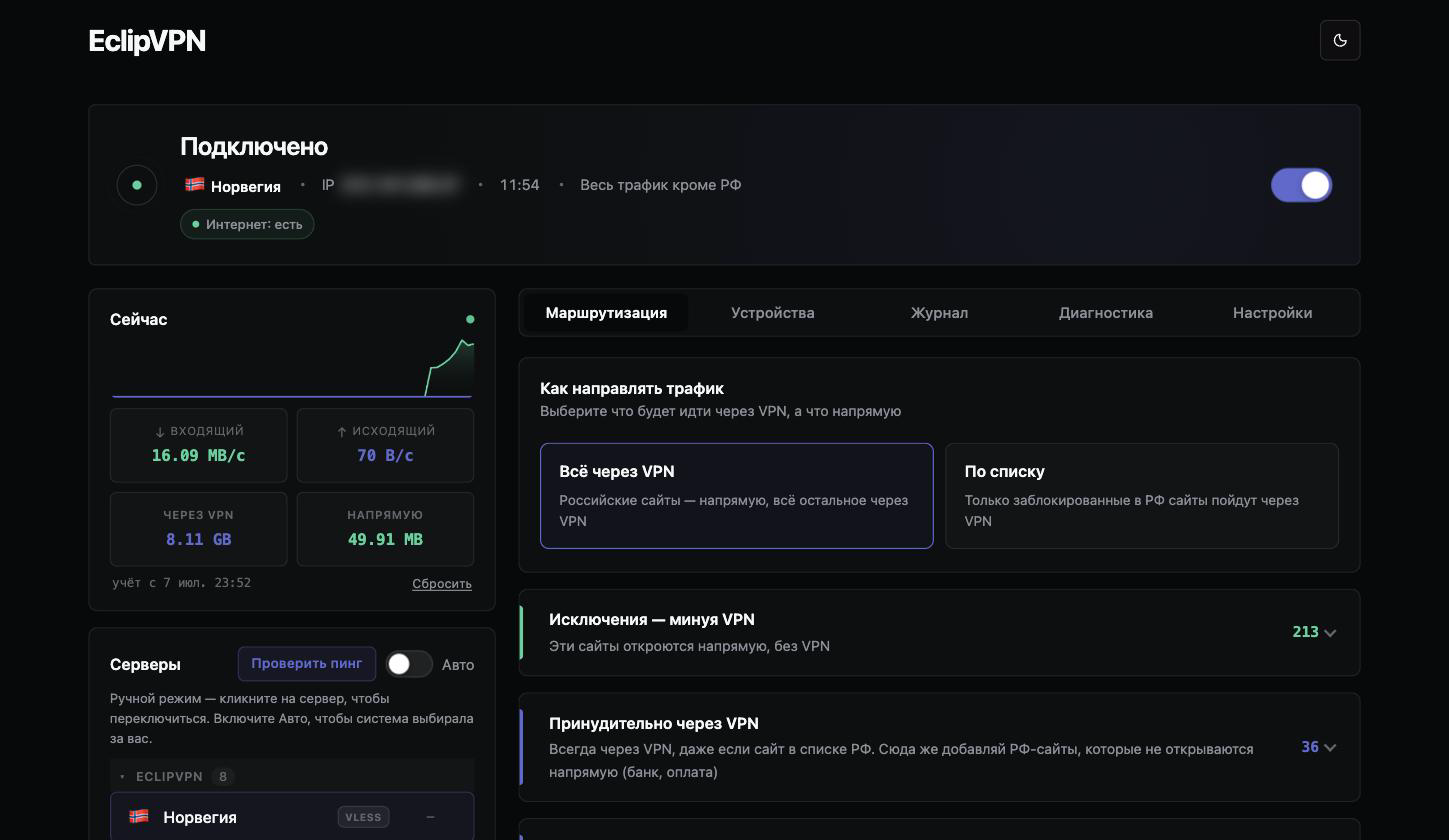
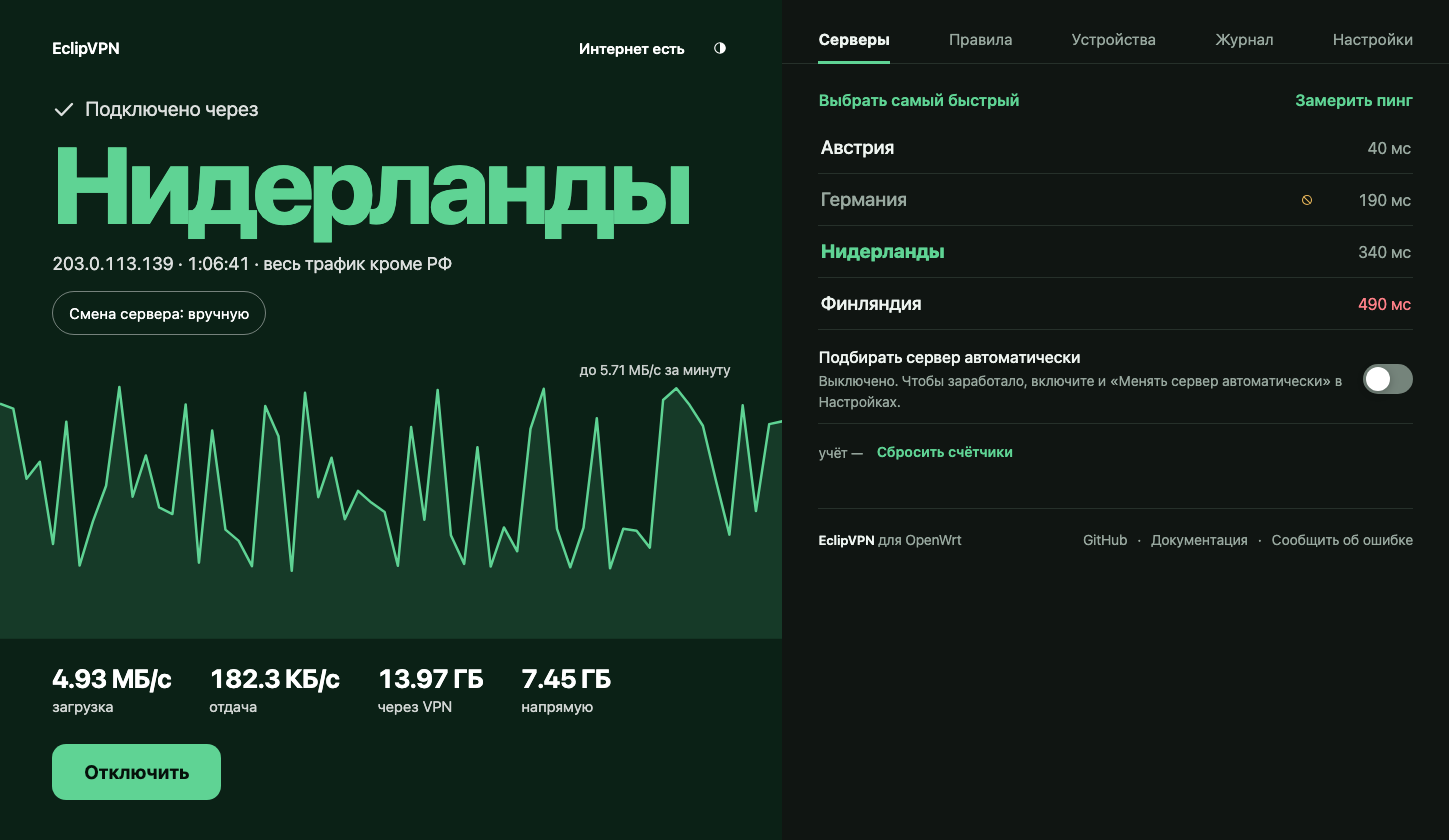
release: prepare v2026.11.3 - new design, docs, phone server toolbar no longer wraps

diff --git a/www/eclipvpn/index.html b/www/eclipvpn/index.html
@@ -1002,13 +1002,13 @@ button.net-badge .nb-dot{background:var(--text-dim)}
   .app{background:var(--bg)}#stage{margin-bottom:-22px;padding-bottom:42px}#panel{position:relative}
   .tabs{position:fixed;inset:auto 0 0 0;margin:0;padding:0 12px env(safe-area-inset-bottom);border:0;border-top:1px solid var(--border)}
   .tab{font-size:13.5px;min-height:56px;margin:-1px 0 0;border-bottom:0;border-top:3px solid transparent}
-  .srv-tools{margin-top:0}.server-list{max-height:none;min-height:0}.server{min-height:48px;padding:3px 0}#trafficPhone{display:inline}
+  .srv-tools{margin-top:0;gap:10px}.srv-tools .btn-text{font-size:15px}.server-list{max-height:none;min-height:0}.server{min-height:48px;padding:3px 0}#trafficPhone{display:inline}
   .in-section .st-main,.in-section .st-act{display:none}.in-section #stage{padding-bottom:36px}
   .device .seg{flex:1 0 100%}.seg-btn{flex:1}.mode-switch{flex-direction:column}
   .log-entries{max-height:none}.toasts{bottom:calc(72px + env(safe-area-inset-bottom));left:14px;right:14px;transform:none}
   #automationCard,#diagCard{scroll-margin-top:12px}
 }
-@media(max-width:380px){.tab{font-size:12.5px}.tabs{padding-left:8px;padding-right:8px}}
+@media(max-width:380px){.srv-tools .btn-text{font-size:14px}.tab{font-size:12.5px}.tabs{padding-left:8px;padding-right:8px}}
 @media(prefers-reduced-motion:reduce){#stage,.st-pre .spin{transition:none;animation:none}}
 
 .card-collapsible+.card:not(.card-collapsible){margin-top:26px}

diff --git a/ui/style.css b/ui/style.css
@@ -991,13 +991,13 @@ button.net-badge .nb-dot{background:var(--text-dim)}
   .app{background:var(--bg)}#stage{margin-bottom:-22px;padding-bottom:42px}#panel{position:relative}
   .tabs{position:fixed;inset:auto 0 0 0;margin:0;padding:0 12px env(safe-area-inset-bottom);border:0;border-top:1px solid var(--border)}
   .tab{font-size:13.5px;min-height:56px;margin:-1px 0 0;border-bottom:0;border-top:3px solid transparent}
-  .srv-tools{margin-top:0}.server-list{max-height:none;min-height:0}.server{min-height:48px;padding:3px 0}#trafficPhone{display:inline}
+  .srv-tools{margin-top:0;gap:10px}.srv-tools .btn-text{font-size:15px}.server-list{max-height:none;min-height:0}.server{min-height:48px;padding:3px 0}#trafficPhone{display:inline}
   .in-section .st-main,.in-section .st-act{display:none}.in-section #stage{padding-bottom:36px}
   .device .seg{flex:1 0 100%}.seg-btn{flex:1}.mode-switch{flex-direction:column}
   .log-entries{max-height:none}.toasts{bottom:calc(72px + env(safe-area-inset-bottom));left:14px;right:14px;transform:none}
   #automationCard,#diagCard{scroll-margin-top:12px}
 }
-@media(max-width:380px){.tab{font-size:12.5px}.tabs{padding-left:8px;padding-right:8px}}
+@media(max-width:380px){.srv-tools .btn-text{font-size:14px}.tab{font-size:12.5px}.tabs{padding-left:8px;padding-right:8px}}
 @media(prefers-reduced-motion:reduce){#stage,.st-pre .spin{transition:none;animation:none}}
 
 .card-collapsible+.card:not(.card-collapsible){margin-top:26px}

diff --git a/docs/eclipvpn_manual.tex b/docs/eclipvpn_manual.tex
@@ -214,20 +214,21 @@ SHA-256: 5f468d133654d32ee7061e92c38def771967992823c0598adafffdf72946beb0
 
 \subsection{Вкладки}
 
+Слева (на телефоне --- сверху) экран статуса: текущий сервер, скорость, индикатор аплинка, кнопка «Отключить». Зелёный --- подключено, жёлтый --- переключается, красный --- нет связи с сервером или интернета у провайдера, серый --- выключено. Справа --- вкладки.
+
 \begin{tabularx}{\textwidth}{l X}
 \toprule
 \textbf{Вкладка} & \textbf{Описание} \\
 \midrule
-Главная & Переключатель VPN, скорость, выбор сервера (группировка по провайдерам, пинг, отметки сбоев), индикатор аплинка. На телефоне и планшете --- отдельная вкладка, на широком экране видна всегда \\
-Маршрутизация & Режим работы, переключатель «Российские сайты тоже через VPN», списки доменов с поиском, сервисные пресеты \\
+Серверы & Список серверов (группировка по провайдерам, пинг, отметки сбоев), «Выбрать самый быстрый», автоподбор \\
+Правила & Режим работы, переключатель «Российские сайты тоже через VPN», списки доменов с поиском, сервисные пресеты \\
 Устройства & Маршрут каждого клиента: «Как все» (общие правила), «VPN» (всегда через VPN, даже российские сайты), «Напрямую» \\
 Журнал & Соединения. По умолчанию «Главное» --- всё, кроме DNS; фильтры: VPN, Напрямую, Ошибки, События, DNS, EclipVPN, Всё \\
-Диагностика & Полная проверка: процессы, DNS, туннель, сайты, утечки (на телефоне --- «Проверка») \\
-Настройки & Подписки (несколько + одиночные серверы); Автоматика (смена сервера, контроль скорости, белые списки, запрет выхода в России, автозапуск, расписание, ночное обновление); Система (обновление, перезапуск, резервная копия) \\
+Настройки & Подписки (несколько + одиночные серверы); Автоматика (смена сервера, контроль скорости, белые списки, запрет выхода в России, автозапуск, расписание, ночное обновление); Система (полная проверка, обновление, перезапуск, резервная копия) \\
 \bottomrule
 \end{tabularx}
 
-Выключение VPN переключателем требует подтверждения: после него весь трафик пойдёт напрямую. Последний замер пинга хранится в браузере до 7 дней (старый показан бледнее).
+Выключение VPN требует подтверждения: после него весь трафик пойдёт напрямую. Последний замер пинга хранится в браузере до 7 дней (старый показан бледнее).
 
 \subsection{Режимы маршрутизации}
 

diff --git a/docs/releases/v2026.11.3.md b/docs/releases/v2026.11.3.md
@@ -1,0 +1,20 @@
+## EclipVPN v2026.11.3
+
+**Новое**
+- **Новый дизайн.** Экран статуса рядом с вкладками. Цвет сразу показывает состояние: зелёный — подключено, жёлтый — переключается, красный — нет связи с сервером или интернета у провайдера, серый — выключено. Тёмная и светлая темы.
+- **Честный статус.** Если сервер перестал отвечать, интерфейс показывает это, а не «Подключено», и предлагает выбрать самый быстрый. Сам он сервер не меняет.
+- **Отмена** во время проверки сервера перед переключением.
+
+**Изменено**
+- Вкладки: «Серверы», «Правила» (бывшая «Маршрутизация»), «Устройства», «Журнал», «Настройки».
+- «Диагностика» переехала в «Настройки ▸ Система».
+- Телефон: серверы видны на первом экране, кнопки крупнее, собственные окна подтверждения.
+
+**Исправлено**
+- Журнал «События»: обновление больше не выглядит как сбой и не попадает в красный счётчик.
+- Счётчики прошлого фильтра журнала сбрасываются при переключении.
+
+**Важно**
+- Версии xray и sing-box не меняются, доустанавливать ничего не нужно.
+- VPN во время обновления перезапустится. Если интерфейс выглядит по-старому, обновите страницу с очисткой кеша (Ctrl+Shift+R / Cmd+Shift+R).
+- Windows-установщик в этом релизе не пересобирался.
